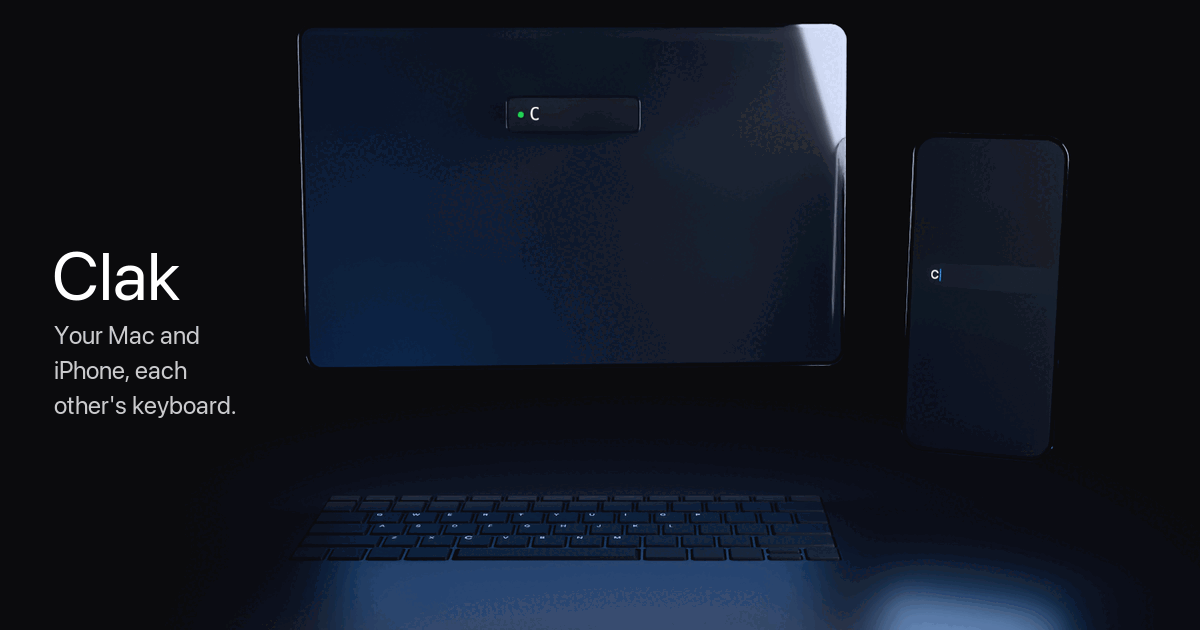
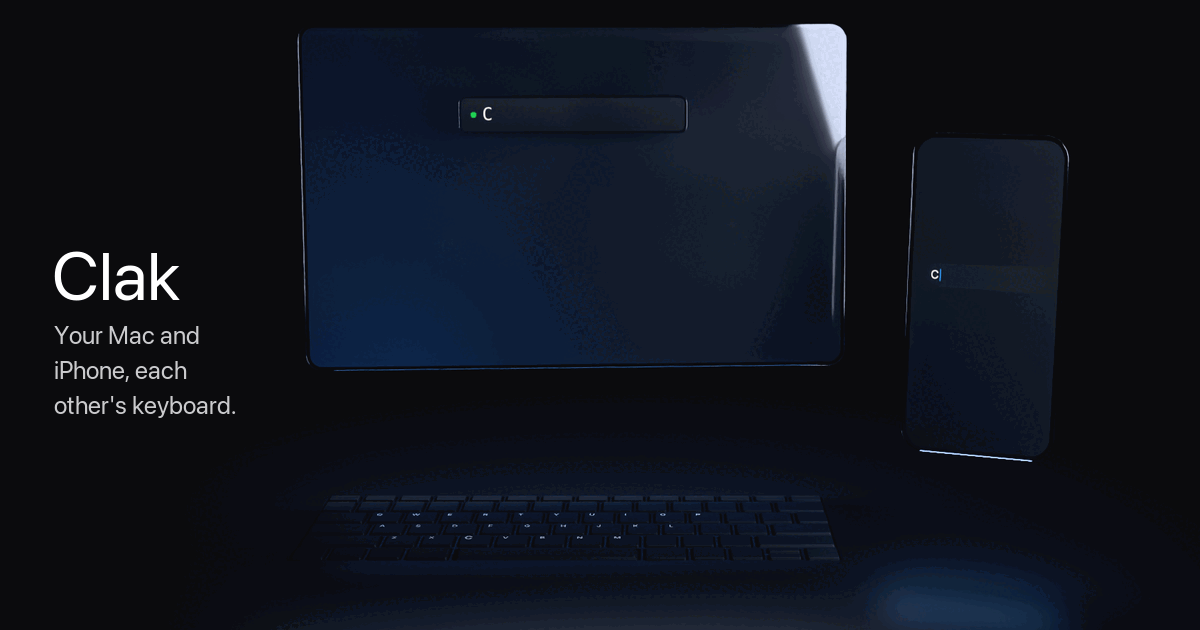
Play the portrait set on narrow screens and fix the still hero
Portrait viewports now use the rendered mobile frames with their own key
light for the dust, and the scroll copy sits in the void under the
keyboard instead of over the Mac window. The poster picks the portrait
frame too. Reduced motion showed the plate without its live screens,
because a tick before the track loaded cached their opacity; that's
fixed, and on a still portrait hero the title moves below the frame so
it no longer covers the phone. og.png is regenerated from the new last
frame.

diff --git a/film/film.js b/film/film.js
@@ -464,7 +464,7 @@
     for (const b of bitmaps.values()) b.close?.();
     bitmaps.clear(); decoding.clear(); decodeQueue = []; blobs = [];
     plate?.close?.(); plate = null; plateFor = '';
-    drawnIndex = -1; drawnKey = ''; screensKey = '';
+    drawnIndex = -1; drawnKey = ''; screensKey = ''; screensOpacity = -1; track = null;
     const key = portrait.matches ? 'mobile' : 'desktop';
     N = meta.frames;
     set = { ...meta.sets[key] };
@@ -473,13 +473,23 @@
       // A rendered portrait set replaces the desktop crop when it's there.
       const [beats, tm] = await Promise.all([loadJSON('frames/mobile/beats.json'), loadJSON('frames/track_mobile.json')]);
       if (beats && Array.isArray(beats.story) && tm && Array.isArray(tm.frames)) {
-        set = { width: tm.width, height: tm.height, path: 'frames/mobile/{format}/{index}.{format}', focus: [[0, 0.5, 0.5]], story: beats.story };
+        set = {
+          width: tm.width, height: tm.height, path: 'frames/mobile/{format}/{index}.{format}', focus: [[0, 0.5, 0.5]], story: beats.story,
+          // The portrait camera's key light, in its frame pixels (read off mobile/png/000); meta.json can override it.
+          beam: (meta.sets.mobile && meta.sets.mobile.beam) || { a: [-100, 170], b: [850, 1030], w0: 150, w1: 260 },
+        };
         raw = resampleToStory(tm, N);
         imagesKey = 'mobile';
       }
     }
     if (!raw) raw = await loadJSON('frames/track.json');
     NI = set.story ? set.story.length : N;
+    hero.classList.toggle('has-portrait-set', imagesKey === 'mobile');
+    // Still portrait: the phone panel fills the bottom of the frame, so the title moves below it.
+    if (staticMode) {
+      const title = hero.querySelector('.film__title');
+      if (imagesKey === 'mobile') hero.appendChild(title); else hero.querySelector('.film__copy').prepend(title);
+    }
     capacity = Math.max(12, Math.floor(DECODED_BUDGET[key] / (set.width * set.height * 4)));
     stats.set = imagesKey === key ? key : `${key} (desktop crop)`;
     track = buildTrack(raw);
@@ -547,7 +557,7 @@
   }
 
   function drawDust(t, alpha) {
-    const { a, b, w0, w1 } = meta.beam;
+    const { a, b, w0, w1 } = set.beam || meta.beam;
     const ax = b[0] - a[0], ay = b[1] - a[1], len = Math.hypot(ax, ay);
     const nx = -ay / len, ny = ax / len;
     const warm = sprite.warm;
@@ -882,7 +892,7 @@
 
   let screensOpacity = -1;
   function setScreens(o) {
-    if (o === screensOpacity) return;
+    if (!track || o === screensOpacity) return;         // no track yet: nothing to show, nothing to cache
     screensOpacity = o;
     for (const [el] of liveScreens()) {
       el.style.opacity = o.toFixed(3);

diff --git a/film/film.css b/film/film.css
@@ -40,8 +40,7 @@ html:not(.js) .film__stage { position: relative; }
 .film__poster, .film__frames, .film__fx {
   position: absolute; inset: 0; width: 100%; height: 100%; display: block; pointer-events: none;
 }
-.film__poster img { width: 100%; height: 100%; object-fit: cover; object-position: 36% 55%; display: block; }
-@media (min-aspect-ratio: 4/5) { .film__poster img { object-position: 50% 50%; } }
+.film__poster img { width: 100%; height: 100%; object-fit: cover; object-position: 50% 50%; display: block; }
 /* The frame canvas is opaque black until its first draw; the poster shows until then. */
 .film__frames { opacity: 0; }
 .film.is-drawn .film__frames { opacity: 1; }
@@ -193,6 +192,10 @@ html:not(.js) .film__stage { position: relative; }
   .film__copy::after { content: ""; position: absolute; left: 0; right: 0; top: 0; height: 26svh; background: linear-gradient(rgba(11, 11, 13, 0.75), rgba(11, 11, 13, 0)); }
   .film__cue { display: none; }
 }
+/* The rendered portrait set fills its top with the Mac window and leaves the void at the
+ * bottom, under the keyboard, so the copy goes back to the bottom there. */
+.film.has-portrait-set .film__line { top: auto; bottom: max(24px, 5svh); }
+.film.has-portrait-set .film__copy::after { content: none; }
 
 .film__tap { position: absolute; left: 0; top: 0; width: 1px; height: 1px; overflow: hidden; opacity: 0; pointer-events: none; }
 .film__tap input { font-size: 16px; }
@@ -216,5 +219,7 @@ html:not(.js) .film__stage { position: relative; }
 .film.is-static .film__stage { position: relative; }
 .film.is-static .film__line { display: none; }
 .film.is-static .film__line--live { display: block; opacity: 1; bottom: auto; top: calc(48px + max(16px, 4svh)); }
+.film.is-static.has-portrait-set .film__line--live { top: auto; bottom: max(24px, 5svh); }
 .film.is-static .film__cue { display: none; }
 .film.is-static .film__caret { animation: none !important; }
+.film > .film__title { position: relative; left: auto; right: auto; bottom: auto; padding: 8px var(--film-edge) 56px; }

diff --git a/index.html b/index.html
@@ -1012,6 +1012,10 @@
       <div class="film__stage">
         <!-- Poster and no-script fallback: the first frame, or the locked last frame when motion is reduced. -->
         <picture class="film__poster">
+          <source media="(max-aspect-ratio: 4/5) and (prefers-reduced-motion: reduce)" type="image/avif" srcset="film/frames/mobile/avif/095.avif">
+          <source media="(max-aspect-ratio: 4/5) and (prefers-reduced-motion: reduce)" type="image/webp" srcset="film/frames/mobile/webp/095.webp">
+          <source media="(max-aspect-ratio: 4/5)" type="image/avif" srcset="film/frames/mobile/avif/000.avif">
+          <source media="(max-aspect-ratio: 4/5)" type="image/webp" srcset="film/frames/mobile/webp/000.webp">
           <source media="(prefers-reduced-motion: reduce)" type="image/avif" srcset="film/frames/desktop/avif/149.avif">
           <source media="(prefers-reduced-motion: reduce)" type="image/webp" srcset="film/frames/desktop/webp/149.webp">
           <source type="image/avif" srcset="film/frames/desktop/avif/000.avif">
